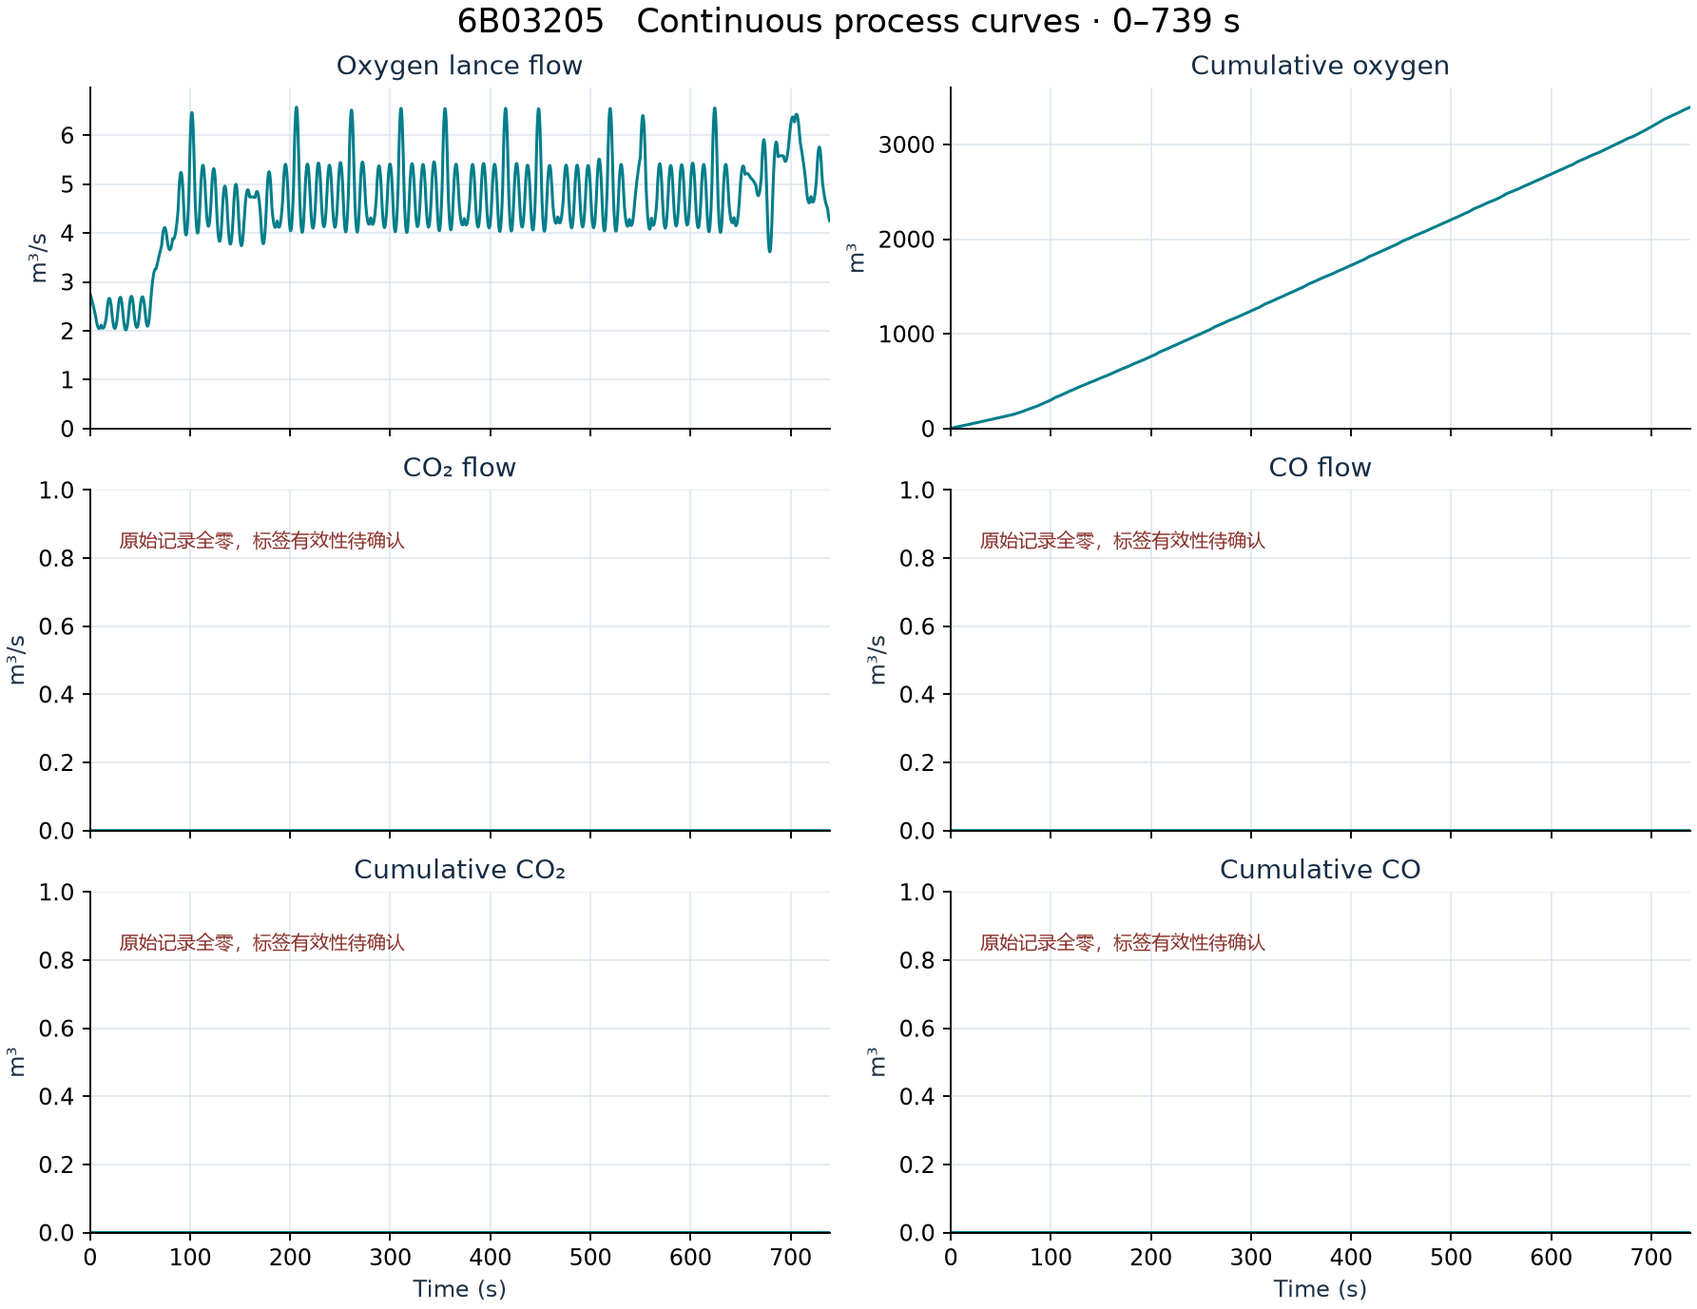
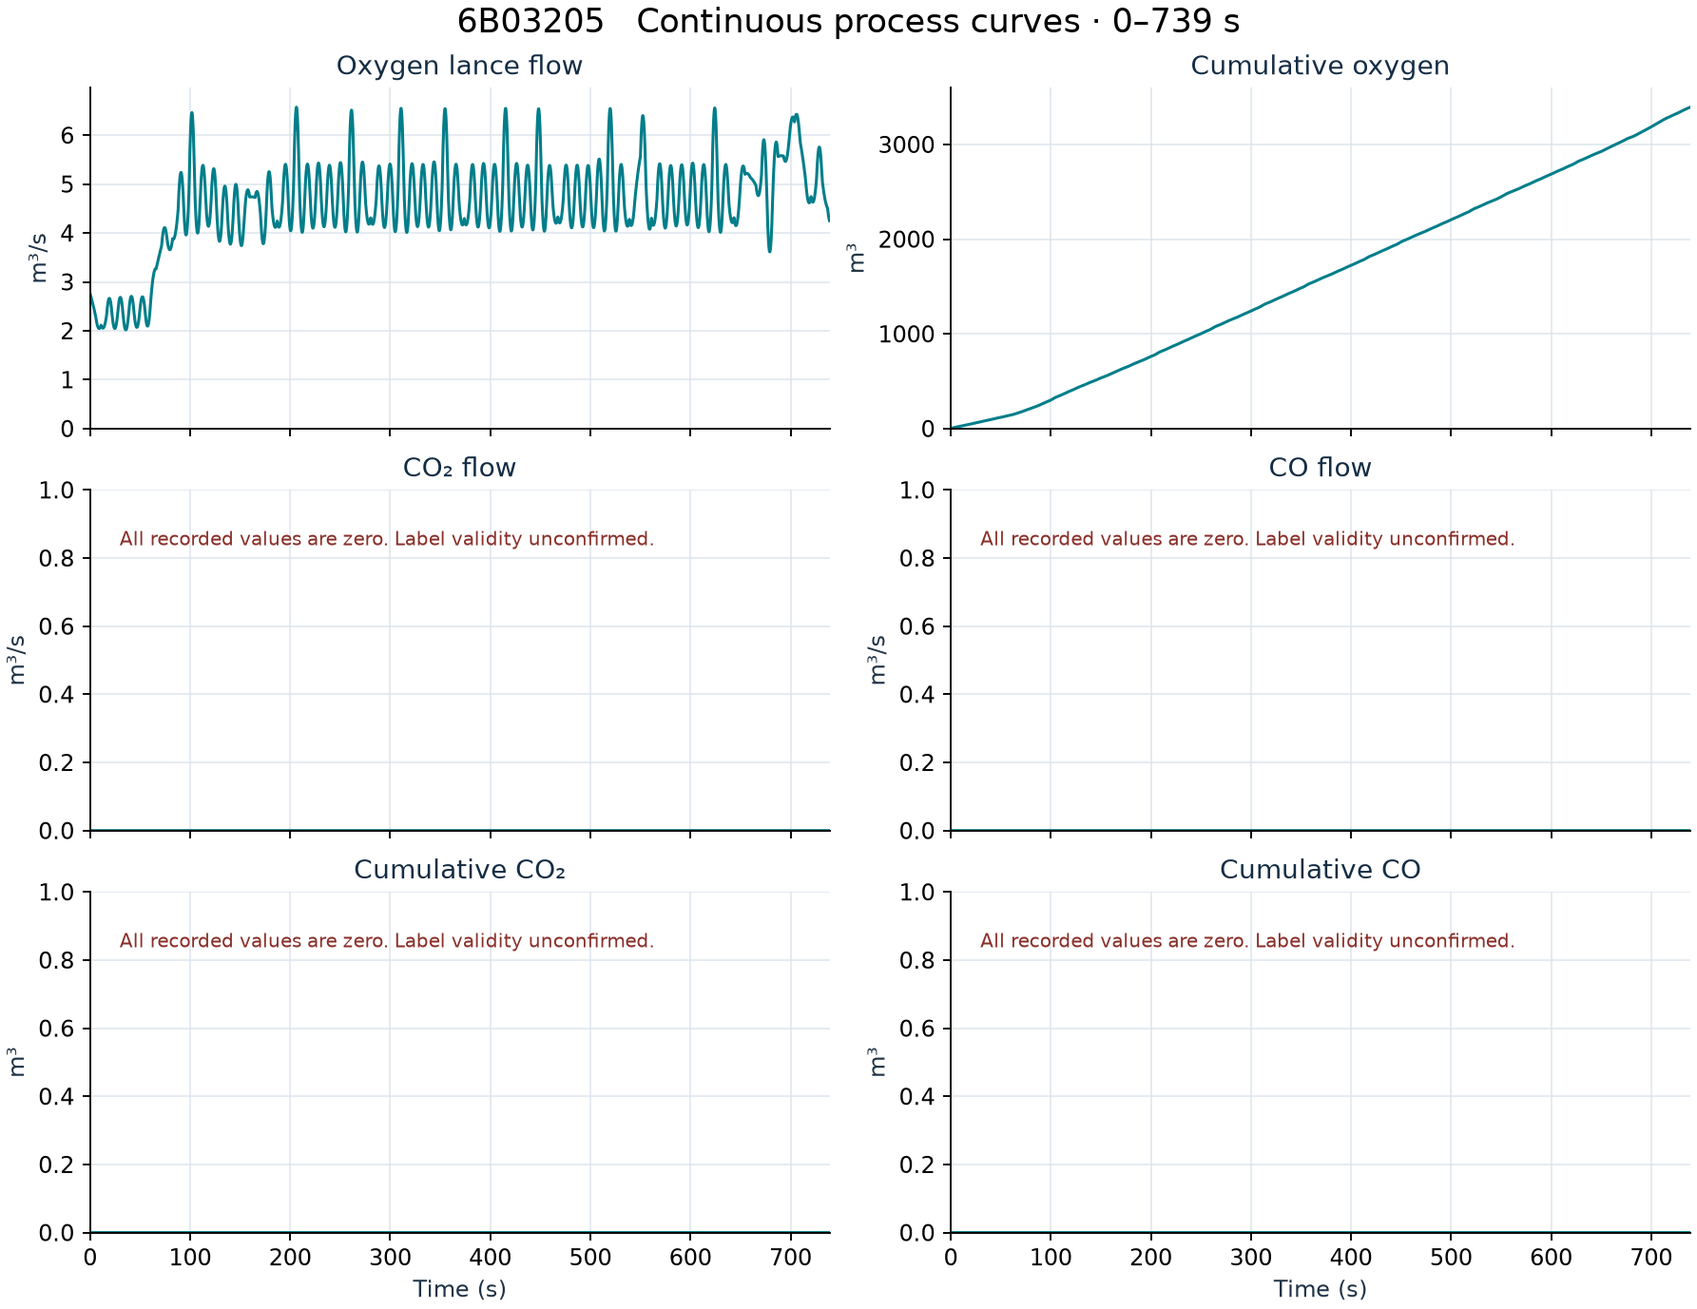
Review English figures and organize heat-level appendices

diff --git a/paper/plot_comparisons.py b/paper/plot_comparisons.py
@@ -1,0 +1,76 @@
+"""Render the manuscript's two paired forecast comparisons from archived results."""
+
+import csv
+from pathlib import Path
+
+import matplotlib
+matplotlib.use("Agg")
+from matplotlib import pyplot as plt
+import numpy as np
+
+
+ROOT = Path(__file__).resolve().parents[1]
+GASES = ("CO2", "CO")
+
+
+def read_rows(path):
+    with (ROOT / path).open(encoding="utf-8-sig", newline="") as stream:
+        return list(csv.DictReader(stream))
+
+
+def archived_comparisons():
+    summary = read_rows("q3/results/summary.csv")
+    gains = read_rows("question3/results/spectral_gain_10s.csv")
+    static, historical, process, fused = [], [], [], []
+    for gas in GASES:
+        selected = {(row["model"]): row for row in summary
+                    if row["target"] == gas and float(row["horizon_s"]) == 10}
+        for dest, model in ((static, "spectrum"), (historical, "spectrum_history")):
+            row = selected[model]
+            assert int(row["heats"]) == 9
+            dest.append(float(row["macro_mae"]))
+        paired = [row for row in gains if row["gas"] == gas]
+        assert len({row["heat"] for row in paired}) == 9 and len(paired) == 9
+        process.append(np.mean([float(row["process_MAE"]) for row in paired]))
+        fused.append(np.mean([float(row["with_spectra_MAE"]) for row in paired]))
+    return (static, historical), (process, fused)
+
+
+def comparison_panel(ax, title, window, values, labels, precision, limit):
+    first, second = values
+    x = np.arange(len(GASES))
+    neutral, accent = "#536477", "#007a78"
+    left, right = x - 0.18, x + 0.18
+    for a, b, u, v in zip(left, right, first, second):
+        ax.plot([a, b], [u, v], color="#a8b7c2", lw=1.3, zorder=2)
+    ax.scatter(left, first, label=labels[0], facecolor="white", edgecolor=neutral, s=43, zorder=3)
+    ax.scatter(right, second, label=labels[1], color=accent, marker="D", s=33, zorder=3)
+    for positions, vals, color in ((left, first, neutral), (right, second, accent)):
+        for pos, value in zip(positions, vals):
+            ax.annotate(f"{value:.{precision}f}", (pos, value), xytext=(0, 6), textcoords="offset points",
+                        ha="center", color=color, fontsize=9)
+    ax.set(xlim=(-0.55, 1.55), ylim=(0, limit), xticks=x, xticklabels=("CO₂", "CO"),
+           xlabel="Gas", ylabel="Heat-averaged MAE (m³/s)")
+    ax.set_title(f"{title}\nScored at target times from {window} s", loc="left", fontsize=10)
+    ax.spines[["top", "right"]].set_visible(False)
+    ax.set_axisbelow(True)
+    ax.grid(axis="y", color="#e1e8ee")
+    ax.legend(loc="upper left", bbox_to_anchor=(0, -0.15), frameon=False, fontsize=9)
+
+
+def main():
+    spectra_only, beyond_process = archived_comparisons()
+    fig, axes = plt.subplots(1, 2, figsize=(8.4, 4.3), layout="constrained")
+    comparison_panel(axes[0], "(a) Spectrum only", 10, spectra_only,
+                     ("Current spectrum", "Spectral history"), 2, 16)
+    comparison_panel(axes[1], "(b) Added value beyond process history", 30, beyond_process,
+                     ("Process history", "Process history + spectra"), 3, 6.5)
+    fig.suptitle("Paired comparisons of 10 s ahead forecasts", fontsize=12)
+    destination = ROOT / "paper" / "figures" / "forecast_comparisons.png"
+    destination.parent.mkdir(exist_ok=True)
+    fig.savefig(destination, dpi=220, facecolor="white")
+    plt.close(fig)
+
+
+if __name__ == "__main__":
+    main()

diff --git a/q1_q2/formal_figures.py b/q1_q2/formal_figures.py
@@ -2,7 +2,6 @@
 
 import matplotlib
 matplotlib.use("Agg")
-from matplotlib import font_manager
 from matplotlib import pyplot as plt
 from matplotlib.colors import Normalize
 import numpy as np
@@ -64,14 +63,6 @@ PROCESS_AXES = (
 )
 
 
-def zero_label():
-    families = {font.name for font in font_manager.fontManager.ttflist}
-    for family in ("Microsoft YaHei", "Noto Sans CJK SC", "SimSun", "PingFang SC"):
-        if family in families:
-            return "原始记录全零，标签有效性待确认", family
-    return "Raw gas records all zero · label validity unconfirmed", "DejaVu Sans"
-
-
 def process_panels(heat, process, destination):
     fig, axes = plt.subplots(3, 2, figsize=(10.5, 8.1), sharex=True, layout="constrained")
     fig.suptitle(f"{heat}   Continuous process curves · 0–{process.time[-1]:g} s", fontsize=15)
@@ -81,9 +72,8 @@ def process_panels(heat, process, destination):
                title=title, ylabel=unit)
         ax.grid(alpha=0.7)
         if process.all_zero and n >= 2:
-            note, family = zero_label()
-            ax.text(0.04, 0.88, note, transform=ax.transAxes, ha="left", va="top",
-                    fontfamily=family, fontsize=8.5, color="#8a302a")
+            ax.text(0.04, 0.88, "All recorded values are zero. Label validity unconfirmed.",
+                    transform=ax.transAxes, ha="left", va="top", fontsize=8.5, color="#8a302a")
         if n >= 4:
             ax.set_xlabel("Time (s)")
     save(fig, destination)

diff --git a/q3/plot_results.py b/q3/plot_results.py
@@ -30,11 +30,11 @@ def plot_predictions(source, destination):
     draw = ImageDraw.Draw(image)
     title, label, small = font(36), font(25), font(20)
     ink, grid, measured, forecast = "#162332", "#d7dfe6", "#364453", "#007e8a"
-    draw.text((80, 32), "Ten held-out heats | 10 s ahead", fill=ink, font=title)
+    draw.text((80, 32), "10 s ahead gas forecasts for ten held-out heats", fill=ink, font=title)
     draw.line((80, 95, 123, 95), measured, 3)
-    draw.text((132, 82), "Measured", fill=ink, font=small)
+    draw.text((132, 82), "Analyzer reading", fill=ink, font=small)
     draw.line((300, 95, 343, 95), forecast, 4)
-    draw.text((352, 82), "Joint ensemble", fill=ink, font=small)
+    draw.text((352, 82), "Joint ensemble forecast", fill=ink, font=small)
     last_time = max(float(heat[-1]["target_s"]) for heat in heats.values())
     x_max = (int(last_time) // 200 + 1) * 200
 
@@ -47,7 +47,8 @@ def plot_predictions(source, destination):
         y_max = (int(peak) // tick + 1) * tick
         left = 184 + col * 708
         width, height = 640, 135
-        draw.text((left, 132), f"{target} (m³/s)", fill=ink, font=label)
+        gas_name = "Carbon dioxide" if target == "CO2" else "Carbon monoxide"
+        draw.text((left, 132), f"{gas_name} flow (m³/s)", fill=ink, font=label)
         for i, (name, rows) in enumerate(heats.items()):
             top = 176 + i * 168
             bottom = top + height

diff --git a/paper/manuscript-en.md b/paper/manuscript-en.md
@@ -36,7 +36,7 @@ The screen repaired 47 points across the ten heats. Figure 1 shows why local str
 
 ![Examples of an isolated impulse and a retained peak](../q1_q2/results/spectral_windows.png)
 
-*Figure 1. Local spectral intensity before and after screening in heat 6B03205. Each pair uses common coordinates and a common colour scale.*
+*Figure 1. Local spectral intensity in heat 6B03205 before and after offline screening and repair. The circles mark the isolated observation at 551.5 s and 764.966 nm (top) and the retained peak at 732.0 s and 588.751 nm (bottom). Each row uses identical time and wavelength coordinates and a shared intensity scale in W/cm². Full surfaces are in Appendix 6.2.*
 
 Between consecutive time and wavelength nodes, the reconstructed intensity is the weighted sum of four corner values with weights (1−a)(1−b), (1−a)b, a(1−b) and ab. Here a and b are the fractional positions along time and wavelength. Each surface retains all native nodes; a 121 by 181 display grid keeps the ten figures comparable. Peak heights should be read on the native grid.
 
@@ -50,9 +50,9 @@ We anchored a monotone piecewise cubic Hermite curve to cumulative oxygen readin
 
 We joined successive gas observations linearly and accumulated their trapezoidal areas from zero at the first observation. In 6B03270 the correlations of cumulative oxygen with instantaneous CO₂ and CO were −0.020 and 0.930, respectively. With cumulative CO₂ and CO volumes they were 0.993 and 0.967. Shared growth over time contributes to the latter correlations, limiting their use as evidence of reaction efficiency.
 
-![Six reconstructed process signals for heat 6C02057](../q1_q2/results/process/6C02057.png)
+![Measured and reconstructed oxygen supply near the largest cumulative-volume deviation in heat 6C02057](../q1_q2/results/oxygen_window.png)
 
-*Figure 2. Reconstructed oxygen supply, gas measurements and cumulative gas volumes for the shortest heat. The appendix provides the same six signals for every heat.*
+*Figure 2. Oxygen-supply reconstruction in heat 6C02057 near 376 s. The upper panel compares recorded and reconstructed cumulative oxygen volume (m³). The lower panel compares raw interval differences and the derivative of the fitted curve (m³/s). Both panels use the same time window. The ten full six-panel figures are in Appendix 6.3.*
 
 For candidate delay estimation we compared 5 s changes in smoothed flow with later gas changes, scanning 0–40 s in 0.5 s steps and maximizing the absolute Pearson correlation. We grouped observations using source-time flow terciles and examined process halves and alternative smoothing windows. With the original trailing flow estimate, the high-flow CO₂ delay was shorter in seven heats and longer in two. For CO it was shorter in three, tied in one and longer in five. Repeating the scan using the reconstructed flow moved 80 of 90 candidate peaks. High-flow delays then became shorter in eight heats for CO₂ and one for CO. The direction of the association depends on the gas, and the inferred number of seconds depends strongly on signal processing.
 
@@ -74,11 +74,11 @@ Table 1 uses common target times starting at 10 s for both concurrent and advanc
 
 Spectral history lowered 10 s ahead CO error by 1.14 m³/s. CO₂ exhibited a small increase. The joint ensemble struggled on the short heat 6C02057, with CO₂ MAE of 8.99 m³/s. This heat remains in the reported average.
 
-![Observed and predicted analyzer measurements by heat](../q3/results/predictions_10s.png)
-
-*Figure 3. Analyzer readings and 10 s ahead forecasts across heats. The all-zero record for 6B03205 is ineligible for quantitative validation.*
-
 A separate paired experiment scored 11,570 heat–time combinations from 30 s onward to allow history features to warm up. Holding the regression penalty, training weights and targets fixed, adding spectral features raised process-history MAE from 4.935 to 5.408 m³/s for CO and from 2.685 to 3.053 m³/s for CO₂. Interpolating interior clipped channels using their neighbours within the same frame changed every heat-level gas MAE by less than 0.0003 m³/s.
+
+![Two paired comparisons of heat-averaged MAE for 10 s ahead CO₂ and CO forecasts](figures/forecast_comparisons.png)
+
+*Figure 3. Two comparisons of 10 s ahead forecasts across nine scored heats. Panel (a) compares current spectra with spectral history at common targets from 10 s. Panel (b) compares process history with and without spectra at common targets from 30 s. Each connector joins two models evaluated on the same targets for that gas. Vertical scales differ between panels. Table A3 reports heat-level differences, and Figure A21 shows the full joint-ensemble forecasts.*
 
 For the delay test, only candidate offsets supported by at least two training heats were eligible. When an estimated offset exceeded the 10 s forecast horizon, we added the spectral change between forecast issuance and the earlier candidate source time. CO never satisfied the support rule. CO₂ triggered the adjustment in seven folds, all based on the same two supporting heats. Its macro MAE rose from 3.053 to 3.101 m³/s. The delay rule therefore yielded no average gain under this evaluation.
 
@@ -87,6 +87,8 @@ For the delay test, only candidate offsets supported by at least two training he
 A short spectral history helped forecast CO in an unseen heat when the furnace-mouth spectrum was the only input. The same benefit did not extend to CO₂. When oxygen-supply records were available, process history gave lower average errors and the tested spectral features added no average benefit. These findings concern the delayed analyzer readings of nine evaluable heats. Broader claims about new plants, clipped peak heights or the composition inside the bath require observations beyond this dataset.
 
 ## 6. Appendix: heat-level results and figures
+
+### 6.1 Heat-level tables
 
 Table A1 links each native-grid reconstruction and six-panel process figure to its heat-specific holdout errors. Intensities follow the units stated in the problem.
 
@@ -103,7 +105,9 @@ Table A1 links each native-grid reconstruction and six-panel process figure to i
 | 6C02107 | 1000 | 116.96 | 176.16 | [Surface](../q1_q2/results/spectra/6C02107.png) | [Six signals](../q1_q2/results/process/6C02107.png) |
 | 6C02108 | 1000 | 122.45 | 181.41 | [Surface](../q1_q2/results/spectra/6C02108.png) | [Six signals](../q1_q2/results/process/6C02108.png) |
 
-Table A2 gives candidate delays (seconds) for the low and high flow groups using the reconstructed flow. Positive offsets place the analyzer response later than its source. A peak at 40 s reaches the search boundary.
+*Table A1. Heat-level spectral interpolation errors at 1,000 withheld interior observations per heat.*
+
+Table A2 gives candidate delays (seconds) for the low and high flow groups using the reconstructed flow. Positive offsets place the analyzer response later than its source. Peaks at 0 and 40 s reach the scan boundaries.
 
 | Heat | CO₂ low | CO₂ high | CO low | CO high |
 |---|---:|---:|---:|---:|
@@ -116,3 +120,131 @@ Table A2 gives candidate delays (seconds) for the low and high flow groups using
 | 6C02060 | 40.0 | 2.0 | 0.0 | 0.0 |
 | 6C02107 | 40.0 | 7.5 | 0.0 | 0.0 |
 | 6C02108 | 36.0 | 14.0 | 22.0 | 28.0 |
+
+*Table A2. Heat-level candidate delays by source-time flow group, in seconds.*
+
+Table A3 reports the two comparisons shown in Figure 3 for each scored heat. Each difference is the MAE of the augmented model minus the MAE of its paired baseline. Negative values indicate lower error. Within each comparison, both models use the same target times and the count applies to each gas.
+
+| Heat | Targets from 10 s | Spectral history ΔMAE, CO₂ | Spectral history ΔMAE, CO | Targets from 30 s | Added spectra ΔMAE, CO₂ | Added spectra ΔMAE, CO |
+|---|---:|---:|---:|---:|---:|---:|
+| 6B03205 | — | — | — | — | — | — |
+| 6B03206 | 1291 | −0.40 | +1.05 | 1251 | −0.172 | +1.255 |
+| 6B03270 | 1393 | −0.09 | −1.66 | 1353 | +0.024 | +1.371 |
+| 6B03271 | 1400 | +0.17 | −0.83 | 1360 | +0.181 | +0.066 |
+| 6C02057 | 755 | −0.81 | −0.61 | 715 | +2.734 | +1.087 |
+| 6C02058 | 1323 | +3.61 | −0.98 | 1283 | +1.748 | +0.615 |
+| 6C02059 | 1535 | −0.63 | −2.71 | 1495 | −0.423 | +0.152 |
+| 6C02060 | 1353 | −0.41 | −2.98 | 1313 | −0.128 | +0.067 |
+| 6C02107 | 1439 | −0.46 | −0.64 | 1399 | −0.163 | +0.340 |
+| 6C02108 | 1441 | −0.57 | −0.90 | 1401 | −0.480 | −0.696 |
+
+*Table A3. Paired differences in 10 s ahead MAE (m³/s). Spectral history is compared with the current spectrum. Added spectra are compared with process history alone. Heat 6B03205 has no eligible gas labels.*
+
+| Heat | Forecast targets | Scored targets | CO₂ MAE (m³/s) | CO MAE (m³/s) |
+|---|---:|---:|---:|---:|
+| 6B03205 | 1459 | — | — | — |
+| 6B03206 | 1291 | 1291 | 2.45 | 6.04 |
+| 6B03270 | 1393 | 1393 | 2.51 | 6.92 |
+| 6B03271 | 1400 | 1400 | 2.15 | 4.54 |
+| 6C02057 | 755 | 755 | 8.99 | 9.58 |
+| 6C02058 | 1323 | 1323 | 4.93 | 3.71 |
+| 6C02059 | 1535 | 1535 | 2.44 | 5.20 |
+| 6C02060 | 1353 | 1353 | 1.82 | 3.74 |
+| 6C02107 | 1439 | 1439 | 1.92 | 2.77 |
+| 6C02108 | 1441 | 1441 | 1.54 | 4.64 |
+
+*Table A4. Joint-ensemble 10 s ahead forecasts and MAEs at target times from 10 s. Counts apply to each gas. No score is reported for 6B03205.*
+
+### 6.2 Full spectral surfaces
+
+Figures A1–A10 show each surface over its recorded time and wavelength ranges. The display grid samples the native-grid reconstruction at 121 time positions and 181 wavelengths. All panels use the same intensity range, 0–65,535 W/cm².
+
+![Reconstructed flame spectrum for heat 6B03205](../q1_q2/results/spectra/6B03205.png)
+
+*Figure A1. Reconstructed flame spectrum for heat 6B03205.*
+
+![Reconstructed flame spectrum for heat 6B03206](../q1_q2/results/spectra/6B03206.png)
+
+*Figure A2. Reconstructed flame spectrum for heat 6B03206.*
+
+![Reconstructed flame spectrum for heat 6B03270](../q1_q2/results/spectra/6B03270.png)
+
+*Figure A3. Reconstructed flame spectrum for heat 6B03270.*
+
+![Reconstructed flame spectrum for heat 6B03271](../q1_q2/results/spectra/6B03271.png)
+
+*Figure A4. Reconstructed flame spectrum for heat 6B03271.*
+
+![Reconstructed flame spectrum for heat 6C02057](../q1_q2/results/spectra/6C02057.png)
+
+*Figure A5. Reconstructed flame spectrum for heat 6C02057.*
+
+![Reconstructed flame spectrum for heat 6C02058](../q1_q2/results/spectra/6C02058.png)
+
+*Figure A6. Reconstructed flame spectrum for heat 6C02058.*
+
+![Reconstructed flame spectrum for heat 6C02059](../q1_q2/results/spectra/6C02059.png)
+
+*Figure A7. Reconstructed flame spectrum for heat 6C02059.*
+
+![Reconstructed flame spectrum for heat 6C02060](../q1_q2/results/spectra/6C02060.png)
+
+*Figure A8. Reconstructed flame spectrum for heat 6C02060.*
+
+![Reconstructed flame spectrum for heat 6C02107](../q1_q2/results/spectra/6C02107.png)
+
+*Figure A9. Reconstructed flame spectrum for heat 6C02107.*
+
+![Reconstructed flame spectrum for heat 6C02108](../q1_q2/results/spectra/6C02108.png)
+
+*Figure A10. Reconstructed flame spectrum for heat 6C02108.*
+
+### 6.3 Full process curves
+
+Figures A11–A20 show lance flow, cumulative oxygen volume, CO₂ and CO flows, and their cumulative volumes. Flow is in m³/s and volume is in m³. Time zero marks the first recorded observation. Each panel extends to the end of its own heat. Vertical limits vary by heat and signal.
+
+![Six reconstructed process signals for heat 6B03205](../q1_q2/results/process/6B03205.png)
+
+*Figure A11. Reconstructed process curves for heat 6B03205. Both gas records are all zero and their label validity remains unconfirmed.*
+
+![Six reconstructed process signals for heat 6B03206](../q1_q2/results/process/6B03206.png)
+
+*Figure A12. Reconstructed process curves for heat 6B03206.*
+
+![Six reconstructed process signals for heat 6B03270](../q1_q2/results/process/6B03270.png)
+
+*Figure A13. Reconstructed process curves for heat 6B03270.*
+
+![Six reconstructed process signals for heat 6B03271](../q1_q2/results/process/6B03271.png)
+
+*Figure A14. Reconstructed process curves for heat 6B03271.*
+
+![Six reconstructed process signals for heat 6C02057](../q1_q2/results/process/6C02057.png)
+
+*Figure A15. Reconstructed process curves for heat 6C02057. The observed record spans 387 s.*
+
+![Six reconstructed process signals for heat 6C02058](../q1_q2/results/process/6C02058.png)
+
+*Figure A16. Reconstructed process curves for heat 6C02058.*
+
+![Six reconstructed process signals for heat 6C02059](../q1_q2/results/process/6C02059.png)
+
+*Figure A17. Reconstructed process curves for heat 6C02059.*
+
+![Six reconstructed process signals for heat 6C02060](../q1_q2/results/process/6C02060.png)
+
+*Figure A18. Reconstructed process curves for heat 6C02060.*
+
+![Six reconstructed process signals for heat 6C02107](../q1_q2/results/process/6C02107.png)
+
+*Figure A19. Reconstructed process curves for heat 6C02107.*
+
+![Six reconstructed process signals for heat 6C02108](../q1_q2/results/process/6C02108.png)
+
+*Figure A20. Reconstructed process curves for heat 6C02108.*
+
+### 6.4 Full joint-ensemble forecast traces
+
+![Analyzer readings and 10 s ahead joint-ensemble forecasts for all ten held-out heats](../q3/results/predictions_10s.png)
+
+*Figure A21. Analyzer readings and 10 s ahead joint-ensemble forecasts. The horizontal axis is the analyzer target time, beginning at 10 s, and the vertical axis is gas flow (m³/s). Each column uses a common vertical scale across heats. Heat 6B03205 shows forecasts only because its gas labels could not be verified. Table A4 reports scores for the nine eligible heats.*

diff --git a/q1_q2/results/README.md b/q1_q2/results/README.md
@@ -13,7 +13,7 @@
 | 9 | 6C02107 | [光谱](spectra/6C02107.png) | [过程](process/6C02107.png) |
 | 10 | 6C02108 | [光谱](spectra/6C02108.png) | [过程](process/6C02108.png) |
 
-附件 1 的四个烟气相关子图标记为“原始记录全零，标签有效性待确认”。附件 5 按实际 387 s 绘制。
+附件 1 的四个烟气相关子图以英文标注原始记录全零、标签有效性待确认。附件 5 按实际 387 s 绘制。
 
 ## 光谱
 
